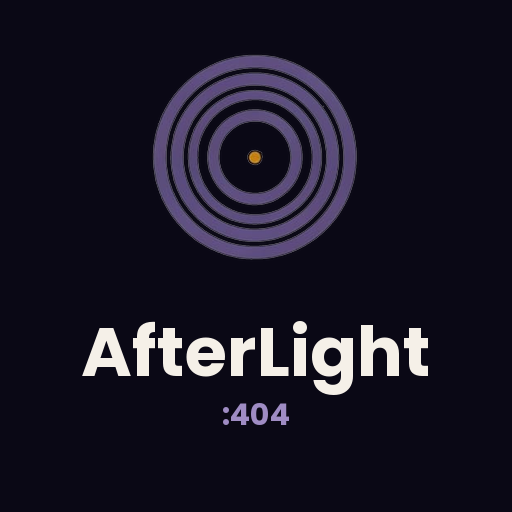
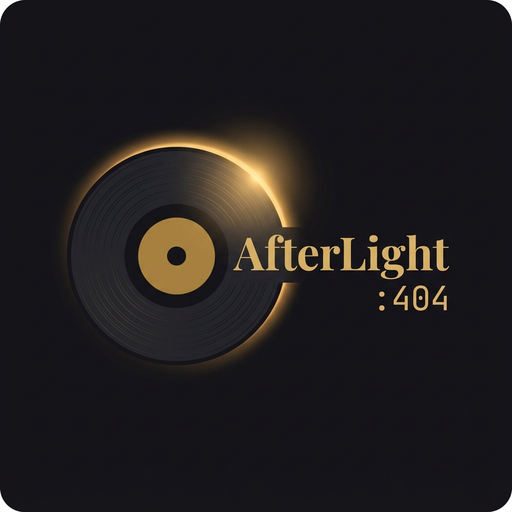
Add files via upload

diff --git a/app.js b/app.js
@@ -823,6 +823,58 @@ const APP_ICON_PACKS = [
       favicon180: 'icons/light/icon-180.png',
     },
   },
+  {
+    id: 'flare',
+    name: 'Anamorphic',
+    dark: {
+      preview: 'icons/flare/dark/icon-512.png',
+      manifest: 'manifest-flare-dark.json',
+      favicon512: 'icons/flare/dark/icon-512.png',
+      favicon192: 'icons/flare/dark/icon-192.png',
+      favicon32: 'icons/flare/dark/icon-32.png',
+      favicon16: 'icons/flare/dark/icon-16.png',
+      favicon180: 'icons/flare/dark/icon-180.png',
+    },
+  },
+  {
+    id: 'vinylcard',
+    name: 'Vinyl Card',
+    light: {
+      preview: 'icons/vinylcard/light/icon-512.png',
+      manifest: 'manifest-vinylcard-light.json',
+      favicon512: 'icons/vinylcard/light/icon-512.png',
+      favicon192: 'icons/vinylcard/light/icon-192.png',
+      favicon32: 'icons/vinylcard/light/icon-32.png',
+      favicon16: 'icons/vinylcard/light/icon-16.png',
+      favicon180: 'icons/vinylcard/light/icon-180.png',
+    },
+  },
+  {
+    id: 'centered',
+    name: 'Centered',
+    light: {
+      preview: 'icons/centered/light/icon-512.png',
+      manifest: 'manifest-centered-light.json',
+      favicon512: 'icons/centered/light/icon-512.png',
+      favicon192: 'icons/centered/light/icon-192.png',
+      favicon32: 'icons/centered/light/icon-32.png',
+      favicon16: 'icons/centered/light/icon-16.png',
+      favicon180: 'icons/centered/light/icon-180.png',
+    },
+  },
+  {
+    id: 'refined',
+    name: 'Refined',
+    light: {
+      preview: 'icons/refined/light/icon-512.png',
+      manifest: 'manifest-refined-light.json',
+      favicon512: 'icons/refined/light/icon-512.png',
+      favicon192: 'icons/refined/light/icon-192.png',
+      favicon32: 'icons/refined/light/icon-32.png',
+      favicon16: 'icons/refined/light/icon-16.png',
+      favicon180: 'icons/refined/light/icon-180.png',
+    },
+  },
 ];
 
 // Legacy two-mode map still used by resolve path when only theme is set.
